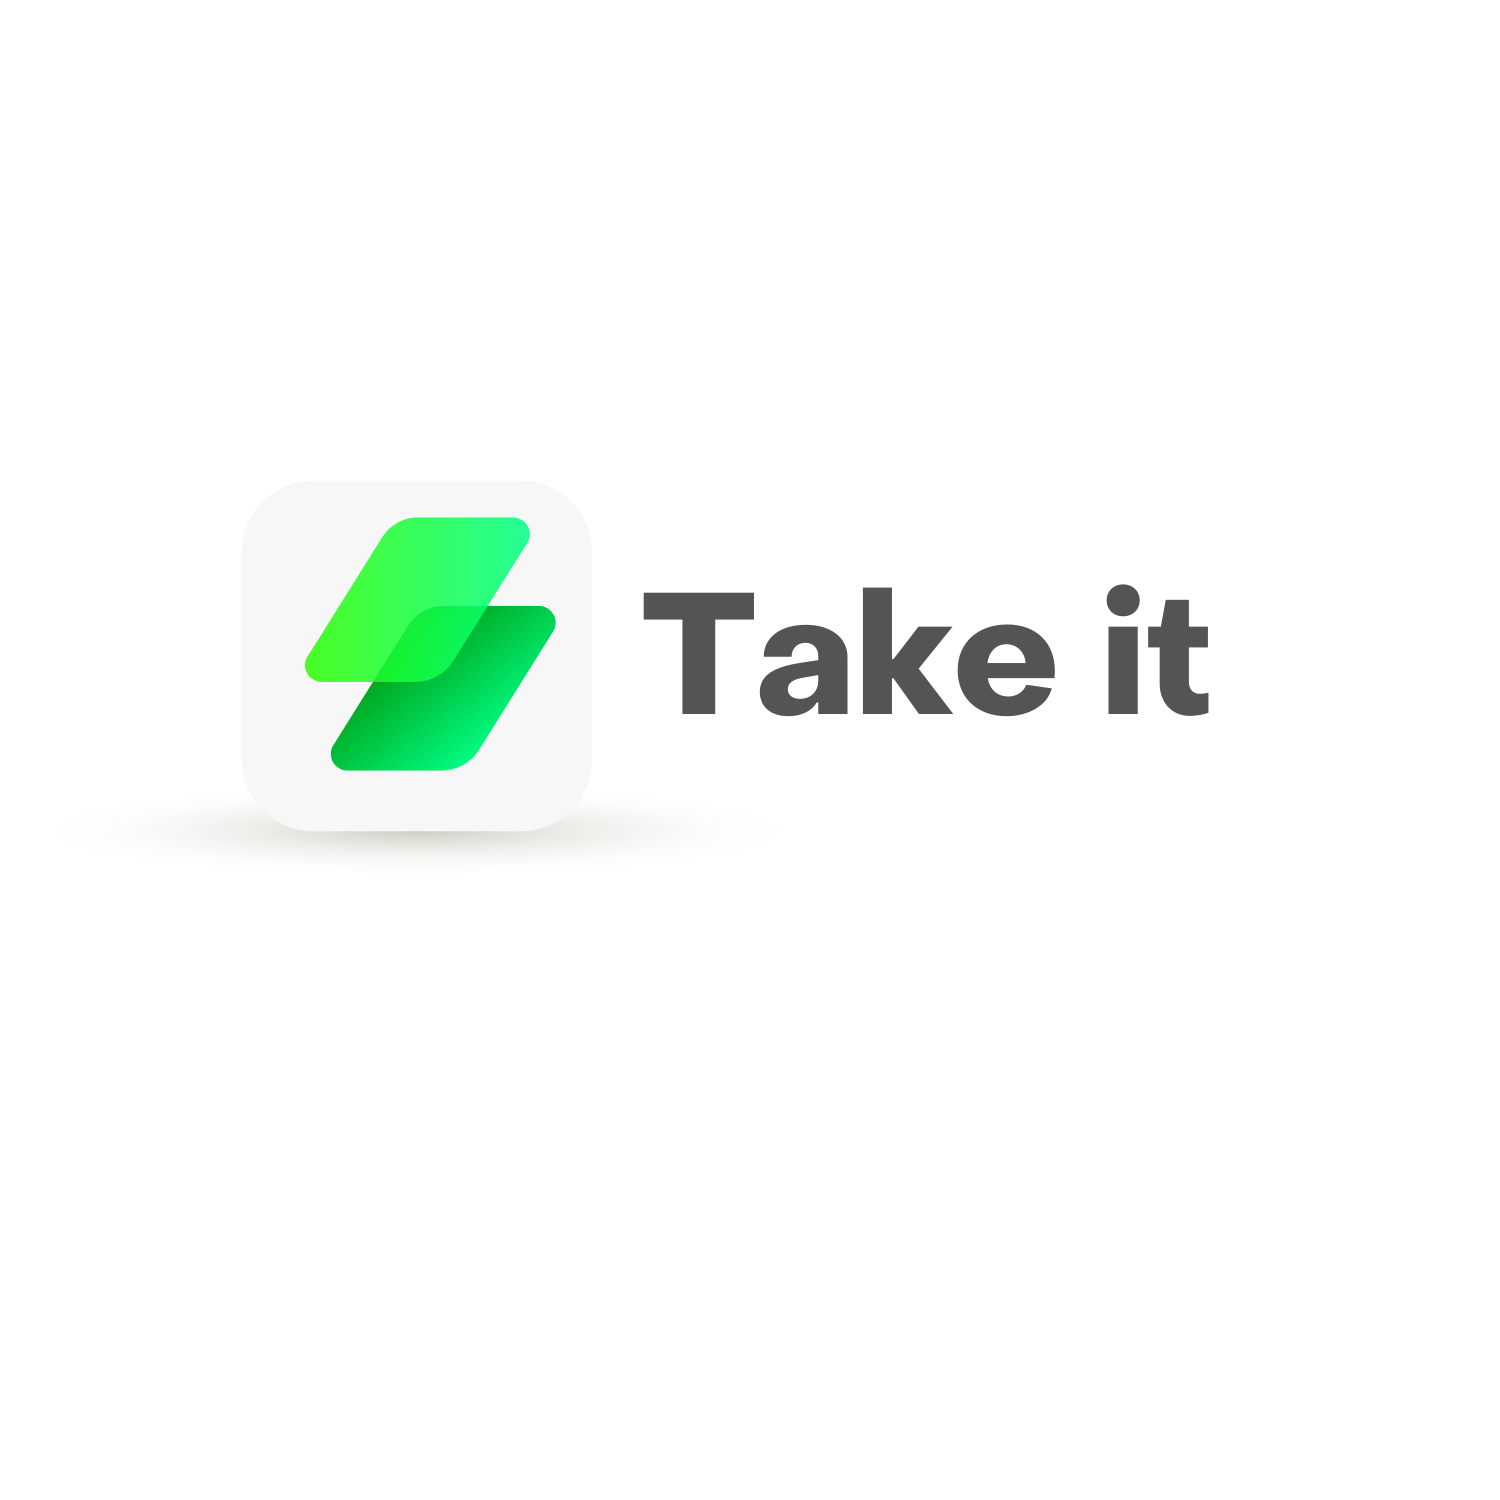
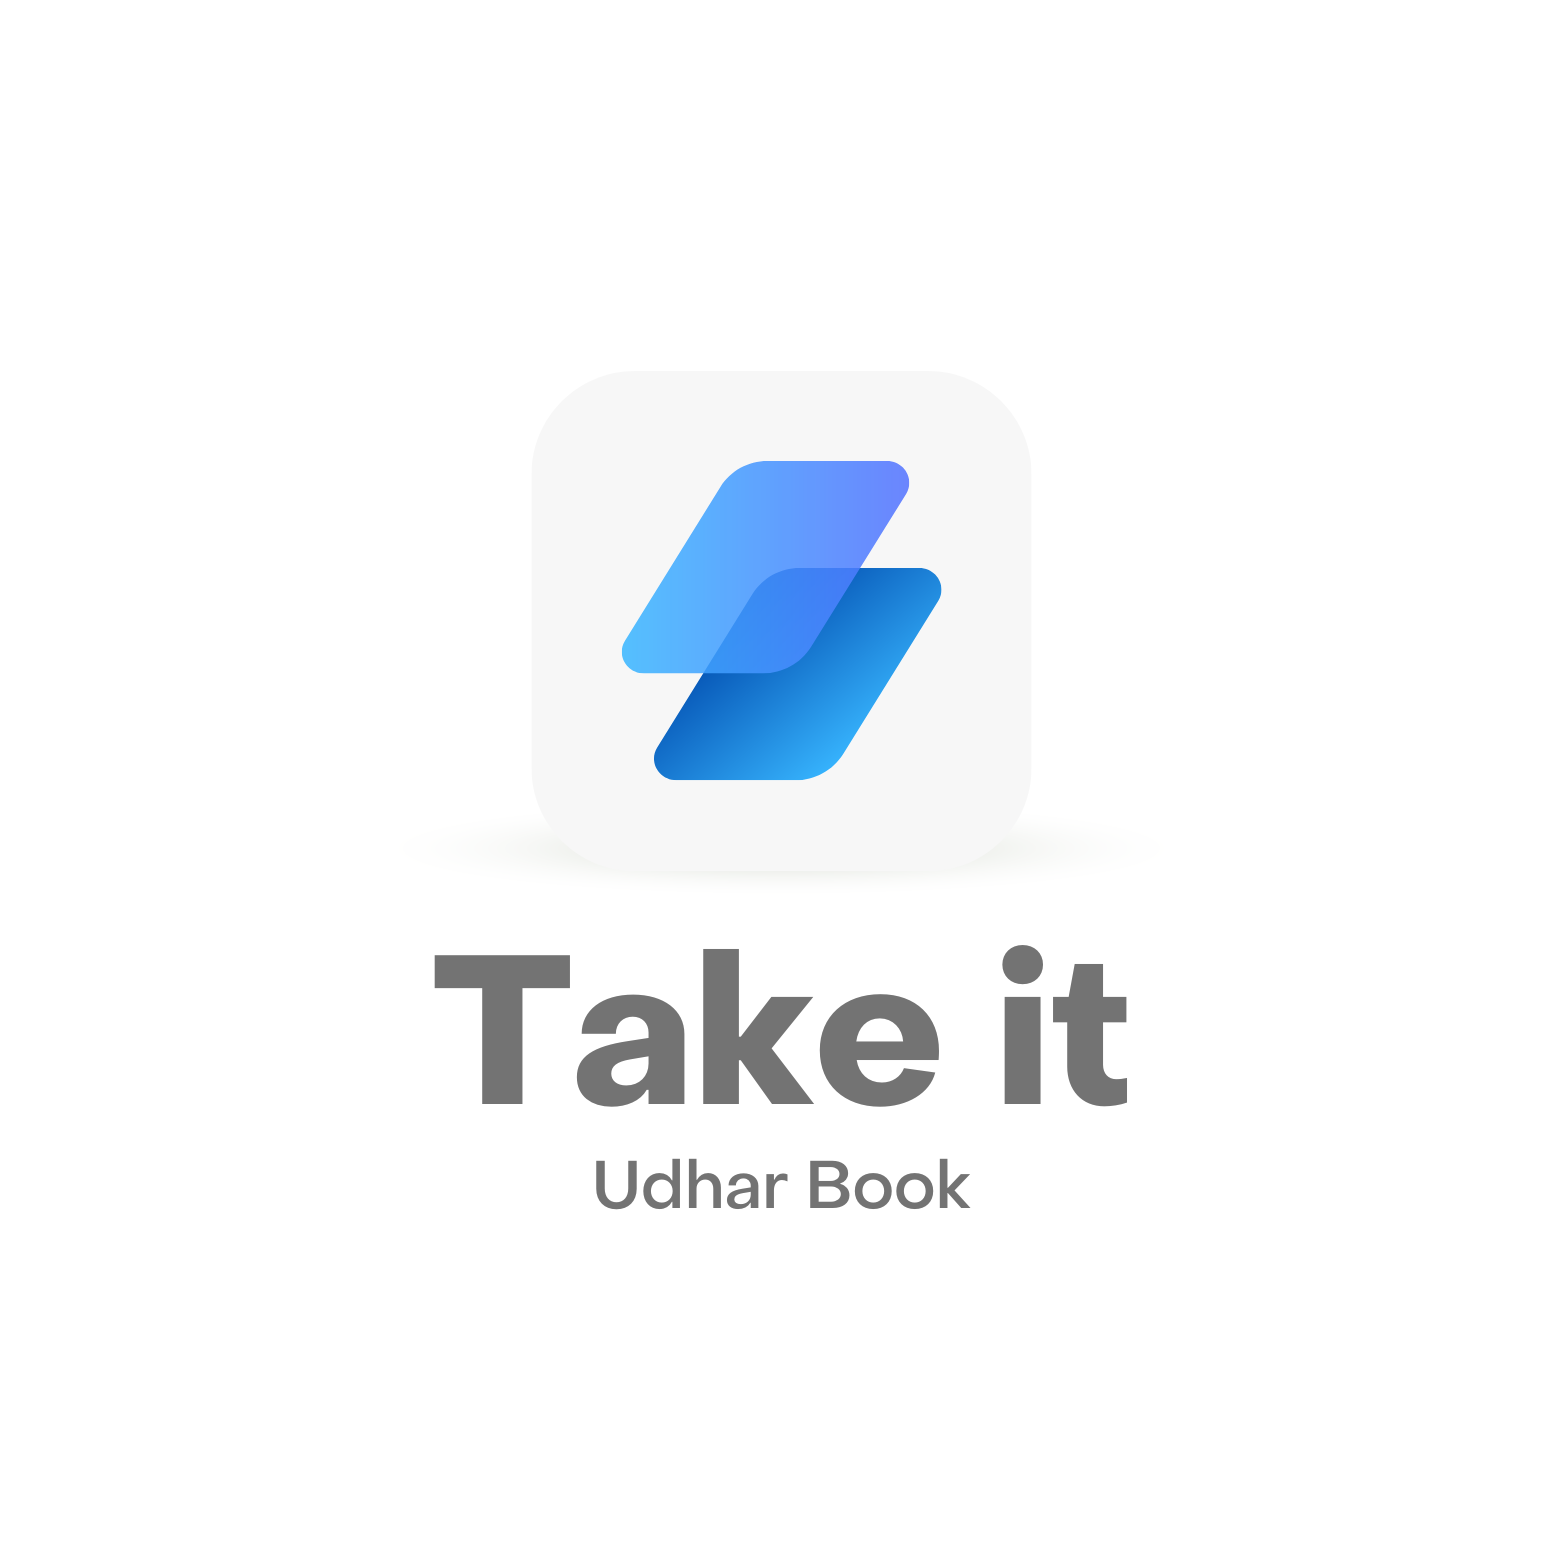
add splash screen

diff --git a/web/index.html b/web/index.html
@@ -1,6 +1,4 @@
-<!DOCTYPE html>
-<html>
-<head>
+<!DOCTYPE html><html><head>
   <!--
     If you are serving your web app in a path other than the root, change the
     href value below to reflect the base path you are serving from.
@@ -27,7 +25,7 @@
   <link rel="apple-touch-icon" href="icons/Icon-192.png">
 
   <!-- Favicon -->
-  <link rel="icon" type="image/png" href="favicon.png"/>
+  <link rel="icon" type="image/png" href="favicon.png">
 
   <title>take_it</title>
   <link rel="manifest" href="manifest.json">
@@ -37,9 +35,16 @@
     var serviceWorkerVersion = null;
   </script>
   <!-- This script adds the flutter initialization JS code -->
-  <script src="flutter.js" defer></script>
+  <script src="flutter.js" defer=""></script>
+  <link rel="stylesheet" type="text/css" href="splash/style.css">
+  <meta content="width=device-width, initial-scale=1.0, maximum-scale=1.0, user-scalable=no" name="viewport">
+  <script src="splash/splash.js"></script>
 </head>
-<body>
+<body>  <picture id="splash">
+      <source srcset="splash/img/light-1x.png 1x, splash/img/light-2x.png 2x, splash/img/light-3x.png 3x, splash/img/light-4x.png 4x" media="(prefers-color-scheme: light)">
+      <source srcset="splash/img/dark-1x.png 1x, splash/img/dark-2x.png 2x, splash/img/dark-3x.png 3x, splash/img/dark-4x.png 4x" media="(prefers-color-scheme: dark)">
+      <img class="center" aria-hidden="true" src="splash/img/light-1x.png" alt="">
+  </picture>      
   <script>
     window.addEventListener('load', function(ev) {
       // Download main.dart.js
@@ -55,5 +60,6 @@
       });
     });
   </script>
-</body>
-</html>
+
+
+</body></html>

diff --git a/web/splash/style.css b/web/splash/style.css
@@ -1,0 +1,56 @@
+html {
+  height: 100%
+}
+
+body {
+  margin: 0;
+  min-height: 100%;
+  background-color: #ffffff;
+  background-size: 100% 100%;
+}
+
+.center {
+  margin: 0;
+  position: absolute;
+  top: 50%;
+  left: 50%;
+  -ms-transform: translate(-50%, -50%);
+  transform: translate(-50%, -50%);
+}
+
+.contain {
+  display:block;
+  width:100%; height:100%;
+  object-fit: contain;
+}
+
+.stretch {
+  display:block;
+  width:100%; height:100%;
+}
+
+.cover {
+  display:block;
+  width:100%; height:100%;
+  object-fit: cover;
+}
+
+.bottom {
+  position: absolute;
+  bottom: 0;
+  left: 50%;
+  -ms-transform: translate(-50%, 0);
+  transform: translate(-50%, 0);
+}
+
+.bottomLeft {
+  position: absolute;
+  bottom: 0;
+  left: 0;
+}
+
+.bottomRight {
+  position: absolute;
+  bottom: 0;
+  right: 0;
+}

diff --git a/web/splash/splash.js b/web/splash/splash.js
@@ -1,0 +1,5 @@
+function removeSplashFromWeb() {
+  document.getElementById("splash")?.remove();
+  document.getElementById("splash-branding")?.remove();
+  document.body.style.background = "transparent";
+}
